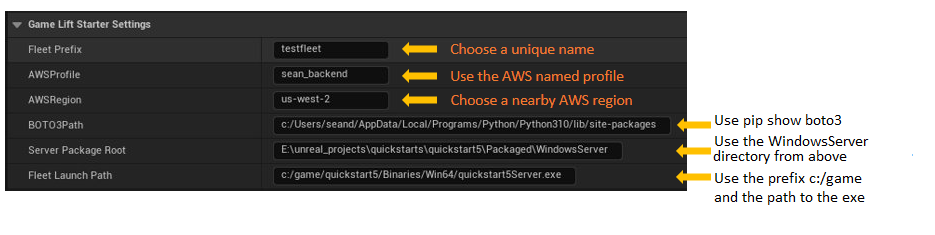
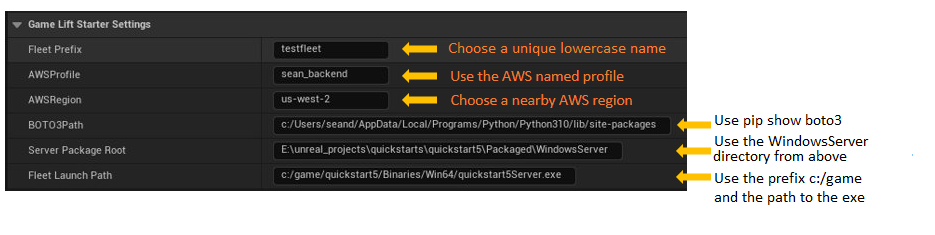
Add checks and docs to ensure prefix is lowercase

Changed region(s): [[0.4652, 0.1787, 0.7134, 0.2383]]

diff --git a/Source/FleeteratorGameLiftStarterEditor/Private/FleeteratorGameLiftStarterEditor.cpp b/Source/FleeteratorGameLiftStarterEditor/Private/FleeteratorGameLiftStarterEditor.cpp
@@ -6,6 +6,7 @@
 #include "FleetFactory.h"
 #include "GameLiftStarterSettings.h"
 #include "GenericPlatform/GenericPlatformHttp.h"
+#include "Misc/MessageDialog.h"
 
 #define LOCTEXT_NAMESPACE "FFleeteratorGameLiftStarterEditor"
 
@@ -63,11 +64,43 @@ void FFleeteratorGameLiftStarterEditor::RegisterSettings()
 	}
 }
 
+
+// rule from aws pool subdomain prefix is ^[a-z0-9](?:[a-z0-9\-]{0,61}[a-z0-9])?
+// * so lowercase alpha numeric and no '-' prefix or suffix
+// * the aws_backend.py will also use the fleet prefix and add a 6 character "-login" suffix so the acceptable fleet prefix
+//   needs to be ^[a-z0-9](?:[a-z0-9\-]{0,56}
+// * but consider: who knows what other limits aws has and how it mixes with other suffixes
+// * so I'll just choose to only allow upto 32 characters for the fleet prefix:
+//   needs to be ^[a-z0-9](?:[a-z0-9\-]{0,31}
+static bool ValidateFleetPrefix(const FString& FleetPrefix)
+{
+	const FRegexPattern ValidFleetPrefixPatten(TEXT("^[a-z0-9][a-z0-9-]{0,31}$"));
+	FRegexMatcher Matcher(ValidFleetPrefixPatten, FleetPrefix);
+	bool bFindNext = Matcher.FindNext();
+	return bFindNext;
+}
+
+
 void FFleeteratorGameLiftStarterEditor::OnPropertyChanged(UObject* ObjectBeingModified, FPropertyChangedEvent& PropertyChangedEvent)
 {
 	if (UGameLiftStarterSettings* Settings = Cast<UGameLiftStarterSettings>(ObjectBeingModified))
 	{
-		// TODO - update the query string here instead?
+		FProperty* PropertyThatChanged = PropertyChangedEvent.Property;
+		static const FString FleetPrefix = TEXT("FleetPrefix");
+		if (PropertyThatChanged != nullptr && PropertyThatChanged->GetName() == FleetPrefix)
+		{
+			if (!ValidateFleetPrefix(Settings->FleetPrefix))
+			{
+				static FName NAME_FMErrors("FleetManagerPlugin");
+				FMessageLog SettingsError(NAME_FMErrors);
+				TSharedRef<FTokenizedMessage> Message = SettingsError.Error();
+
+				Message->AddToken(FTextToken::Create(LOCTEXT("InvalidFleetPrefix1", "The Fleet Prefix")));
+				Message->AddToken(FTextToken::Create(FText::FromString(Settings->FleetPrefix)));
+				Message->AddToken(FTextToken::Create(LOCTEXT("InvalidFleetPrefix2", "is invalid. Ensure you are using lowercase")));
+				SettingsError.Notify();
+			}
+		}
 	}
 }
 

diff --git a/Content/Python/aws_backend.py b/Content/Python/aws_backend.py
@@ -261,7 +261,11 @@ def PopTwoOrBadRequest(queue):
 
 def handle_request(part_queue, query_dict, verb):
     resource = PopOneOrBadRequest(part_queue)
-    default_config=make_backend_config_from_dict(query_dict)
+    try: 
+        default_config=make_backend_config_from_dict(query_dict)
+    except:
+        log_exception("handle_request")
+        return 200, {"Overall Result": "Invalid Settings"}
     if resource == "metadata":
         return 200, fleet_metadata_json
     elif resource == "config":
@@ -1276,6 +1280,13 @@ def make_backend_config_from_dict(dict):
         args.append(param)
     return make_backend_config_from_args(args)
 
+
+def verify_backend_config(backend_config):
+    prefix = backend_config["prefix"]
+    regex = r'^[a-z0-9][a-z0-9-]{0,31}$'
+    if not re.match(regex, prefix):
+        raise Exception(f"Invalid fleet prefix {prefix}.  Check your project settings to ensure you are using lowercase")
+
 # return a dictionary that still needs to be  
 def make_backend_config_from_args(argv):
     '''return a backend_config'''
@@ -1419,6 +1430,8 @@ override default example:
         if type(value) == str:
             backend_config[key] = value.replace("[prefix]", prefix)
         log_debug(f"    {key}:{backend_config[key]}")
+
+    verify_backend_config(backend_config)
 
     return backend_config
 

diff --git a/Source/FleeteratorGameLiftStarterEditor/Private/GameLiftStarterSettings.h b/Source/FleeteratorGameLiftStarterEditor/Private/GameLiftStarterSettings.h
@@ -14,21 +14,27 @@ class FLEETERATORGAMELIFTSTARTEREDITOR_API UGameLiftStarterSettings : public UOb
 	GENERATED_UCLASS_BODY()
 public:
 
+	/** Choose a unique lowercase name to help track resources. */
 	UPROPERTY(EditAnywhere, config)
 	FString FleetPrefix;
 
+	/** Use your AWS named profile */
 	UPROPERTY(EditAnywhere, config)
 	FString AWSProfile;
 
+	/** Choose a nearby AWS region */
 	UPROPERTY(EditAnywhere, config)
 	FString AWSRegion;
 
+	/** Use pip show boto3 to find this */
 	UPROPERTY(EditAnywhere, config)
 	FString BOTO3Path;
 
+	/** The directory where your server package is.  For Windows, this path will end in WindowsServer */
 	UPROPERTY(EditAnywhere, config)
 	FString ServerPackageRoot;
 
+	/** This has to have the prefix c:/game and then the path to the exe */
 	UPROPERTY(EditAnywhere, config)
 	FString FleetLaunchPath;
 
